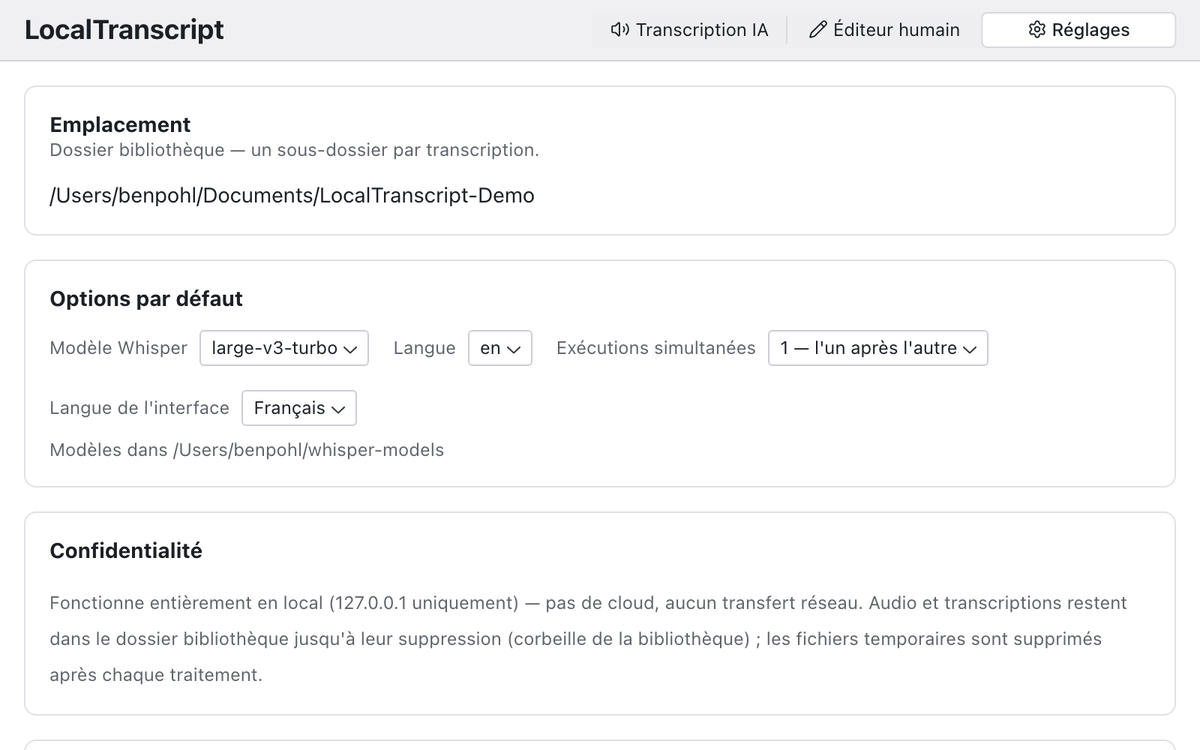
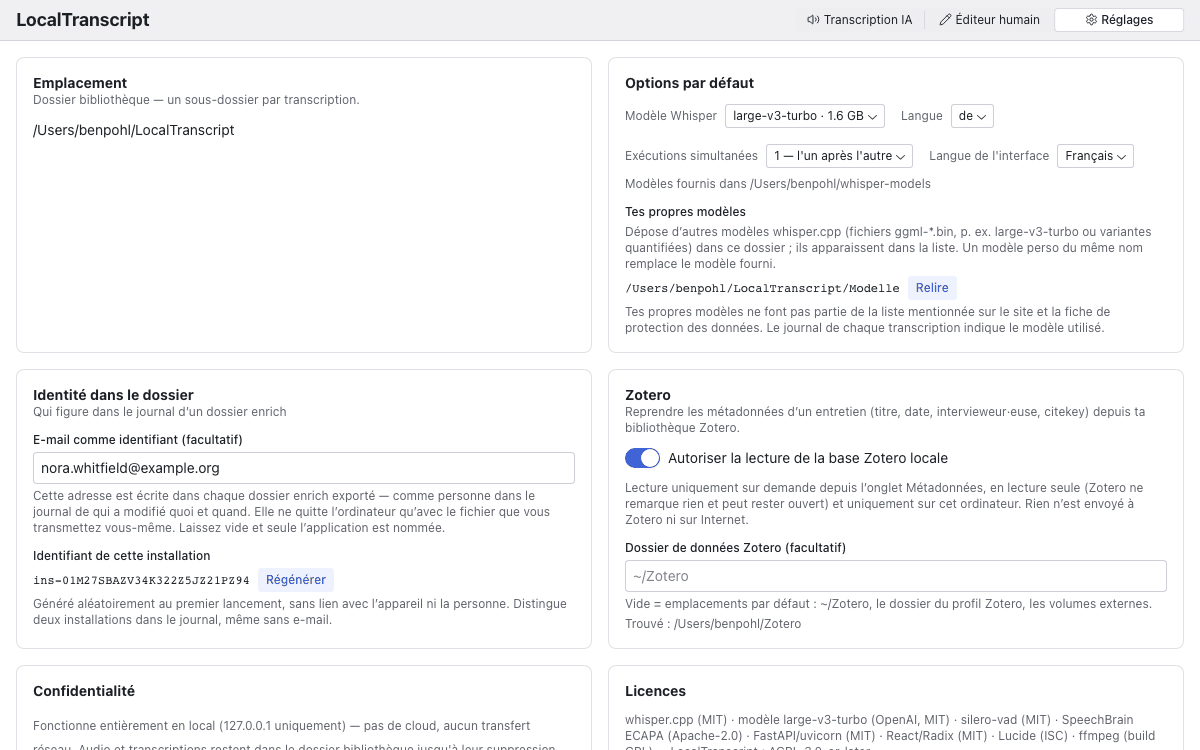
site: Schritt 6 «Metadaten aus Zotero» (erst in Zotero anlegen, dann hier zuweisen — für den enrich-Export) und «Eigene Modelle» im Einstellungs-Schritt, viersprachig; neue Bildschirmfotos (Wegwerf-Bibliothek, erfundenes Interview, gefälschte Zotero-Einträge) und zwei schematische Ansichten (Ordner 
Claude-Session: https://claude.ai/code/session_01VhoDoDyamQwRzZ3dqypMTk

diff --git a/site/index.html b/site/index.html
@@ -286,7 +286,27 @@ footer .links{display:flex;flex-wrap:wrap;gap:.35rem .5rem}
     </div>
     <div class="row schritt gross">
       <div class="t">
-        <h3><span class="nr">6</span><span data-t="g6h"></span></h3>
+        <h3><span class="nr">6</span><span data-t="zH"></span></h3>
+        <p data-t="zA"></p>
+        <p data-t="zB"></p>
+        <ol>
+          <li data-t="zS1"></li><li data-t="zS2"></li>
+          <li data-t="zS3"></li><li data-t="zS4"></li>
+        </ol>
+        <p data-t="zC"></p>
+      </div>
+      <div>
+        <div class="shot"><img src="img/zotero-item.png"
+          width="1200" height="301" alt="" data-alt="altZoteroItem"></div>
+        <div class="shot" style="margin-top:1rem"><img data-img="zotero" src="img/zotero-de.png"
+          width="1200" height="750" alt="" data-alt="altZotero"></div>
+        <div class="shot" style="margin-top:1rem"><img data-img="zotero-linked" src="img/zotero-linked-de.png"
+          width="1200" height="750" alt="" data-alt="altZoteroLinked"></div>
+      </div>
+    </div>
+    <div class="row schritt gross">
+      <div class="t">
+        <h3><span class="nr">7</span><span data-t="g6h"></span></h3>
         <p data-t="g6a"></p>
         <p data-t="g6b"></p>
         <ol>
@@ -303,11 +323,17 @@ footer .links{display:flex;flex-wrap:wrap;gap:.35rem .5rem}
     </div>
     <div class="row schritt gross">
       <div class="t">
-        <h3><span class="nr">7</span><span data-t="g7h"></span></h3>
+        <h3><span class="nr">8</span><span data-t="g7h"></span></h3>
         <p data-t="g7a"></p>
+        <p data-t="g7b"></p>
+        <p data-t="g7c"></p>
       </div>
-      <div class="shot"><img data-img="settings" src="img/settings-de.png"
-        width="1200" height="750" alt="" data-alt="altSettings"></div>
+      <div>
+        <div class="shot"><img data-img="settings" src="img/settings-de.png"
+          width="1200" height="750" alt="" data-alt="altSettings"></div>
+        <div class="shot" style="margin-top:1rem"><img src="img/models-folder.png"
+          width="1200" height="221" alt="" data-alt="altModelsFolder"></div>
+      </div>
     </div>
   </div>
 </section>
@@ -1467,7 +1493,21 @@ de:{
   altSettings:"Einstellungen mit Speicherort, Lizenzen und Formaten",
 
   guideH:"Bedienungsanleitung",
-  guideLede:"Von der Audiodatei bis zum Export in sieben Schritten. Dieselben Schritte stehen ausführlicher im README auf GitHub.",
+  guideLede:"Von der Audiodatei bis zum Export in acht Schritten. Dieselben Schritte stehen ausführlicher im README auf GitHub.",
+  zH:"Metadaten aus Zotero",
+  zA:"Wer Interviews in Zotero führt, verknüpft das Transkript mit seinem Zotero-Eintrag. Titel, Datum, Interviewer:in und Citekey reisen dann im enrich-Export mit — als Schicht source/zotero.json; enrich setzt sie auf Seite 1 der Lesefassung.",
+  zB:"Die Reihenfolge: erst in Zotero anlegen, dann hier zuweisen.",
+  zS1:"In Zotero den Eintrag anlegen: Typ «Interview», Interviewer:in und befragte Person als Beteiligte, Datum, Titel. Better BibTeX vergibt den Citekey.",
+  zS2:"In LocalTranscript einmalig in den Einstellungen «Lokale Zotero-Datenbank lesen erlauben» einschalten.",
+  zS3:"Im Editor den Reiter «Metadaten» öffnen, nach Titel, Jahr, Name oder Citekey suchen und den Eintrag anklicken — Interviews stehen zuoberst.",
+  zS4:"Rollen wählen und «Verknüpfen». Die befragte Person ist nicht vorausgewählt: Ein pseudonymisiertes Transkript soll ihren Namen nicht über Zotero bekommen.",
+  zC:"Zotero wird dabei nur gelesen — die Datenbank schreibgeschützt geöffnet, Zotero kann offen bleiben —, nur auf Anfrage, und nichts geht ins Netz. «Lösen» entfernt die Verknüpfung wieder, «Neu laden» holt Änderungen aus Zotero nach.",
+  altZoteroItem:"Schematische Zotero-Ansicht: ein Eintrag vom Typ Interview mit Interviewer:in, befragter Person, Datum und Citekey",
+  altZotero:"Reiter Metadaten im Editor mit Suchtreffern aus Zotero und der Rollenwahl",
+  altZoteroLinked:"Reiter Metadaten nach dem Verknüpfen: Titel, Datum, Citekey und Interviewer:in",
+  g7b:"Eigene Modelle: Die Bibliothek hat einen Ordner «Modelle». Jedes whisper.cpp-Modell — eine Datei ggml-….bin, etwa large-v3-turbo-swiss-german für Schweizerdeutsch oder eine quantisierte Variante — dort hineinlegen; nach «Neu einlesen» oder dem nächsten Öffnen der Einstellungen steht es in der Modell-Auswahl, als «eigenes» markiert. Ein eigenes Modell mit dem Namen eines mitgelieferten ersetzt dieses.",
+  g7c:"Die App lädt nie selbst. Geprüft wird nur, ob die Datei ein fertiges ggml-Modell ist; was durchfällt, nennen die Einstellungen mit Grund. Ein Feintuning von Hugging Face wandelt scripts/hf-nach-ggml.py aus dem Repository um. Eigene Modelle sind nicht Teil der geprüften Liste im Datenschutzblatt — womit transkribiert wurde, steht im Journal jedes Transkripts.",
+  altModelsFolder:"Schematische Finder-Ansicht des Ordners Modelle mit zwei ggml-Dateien",
   g1h:"Audio ablegen und transkribieren",
   g1a:"Im Reiter «AI-Transkript» ziehst du eine oder mehrere Dateien in das gestrichelte Feld – MP3, WAV, M4A, OGG oder FLAC. Unter «Optionen» wählst du Whisper-Modell, Sprache, Sprecherzahl und Trennschärfe.",
   g1b:"Die Sprecherzahl ist eine exakte Angabe: «1» bedeutet keine Trennung, alles wird ein Sprecher; «2» bis «6» erzwingen genau diese Zahl; «Automatisch» überlässt es der Clusterung. Mehrere Dateien laufen standardmässig nacheinander – wieviele gleichzeitig rechnen dürfen, stellst du in den Einstellungen ein.",
@@ -1562,7 +1602,21 @@ en:{
   altSettings:"Settings with storage location, licences and formats",
 
   guideH:"User guide",
-  guideLede:"From the audio file to the export in seven steps. The same steps are covered in more detail in the README on GitHub.",
+  guideLede:"From the audio file to the export in eight steps. The same steps are covered in more detail in the README on GitHub.",
+  zH:"Metadata from Zotero",
+  zA:"If you keep interviews in Zotero, link the transcript to its Zotero item. Title, date, interviewer and citekey then travel with the enrich export — as the layer source/zotero.json; enrich puts them on page 1 of the reading copy.",
+  zB:"The order: create it in Zotero first, then assign it here.",
+  zS1:"Create the item in Zotero: type “Interview”, interviewer and interviewee as creators, date, title. Better BibTeX assigns the citekey.",
+  zS2:"In LocalTranscript, switch on “Allow reading the local Zotero database” once in Settings.",
+  zS3:"In the editor open the “Metadata” tab, search by title, year, name or citekey and click the item — interviews come first.",
+  zS4:"Choose the roles and “Link”. The interviewee is not preselected: a pseudonymised transcript should not receive their name through Zotero.",
+  zC:"Zotero is only read — the database is opened read-only, Zotero can stay open —, only on request, and nothing goes online. “Unlink” removes the link again, “Reload” fetches changes made in Zotero.",
+  altZoteroItem:"Schematic Zotero view: an item of type Interview with interviewer, interviewee, date and citekey",
+  altZotero:"Metadata tab in the editor with search results from Zotero and the role selection",
+  altZoteroLinked:"Metadata tab after linking: title, date, citekey and interviewer",
+  g7b:"Your own models: the library has a folder “Modelle”. Put any whisper.cpp model there — a file ggml-….bin, for instance large-v3-turbo-swiss-german for Swiss German or a quantised variant — and after “Rescan” or the next time Settings open it appears in the model list, marked as your own. An own model with the name of a bundled one replaces it.",
+  g7c:"The app never downloads anything. It only checks that the file is a finished ggml model; what fails the check is named in Settings with the reason. A Hugging Face fine-tune is converted with scripts/hf-nach-ggml.py from the repository. Own models are not part of the checked list in the privacy sheet — each transcript’s journal records which model was used.",
+  altModelsFolder:"Schematic Finder view of the Modelle folder with two ggml files",
   g1h:"Drop audio and transcribe",
   g1a:"In the “AI Transcript” tab, drag one or more files into the dashed area – MP3, WAV, M4A, OGG or FLAC. Under “Options” you pick the Whisper model, the language, the number of speakers and the separation threshold.",
   g1b:"The speaker count is an exact figure: “1” means no separation and everything becomes one speaker; “2” to “6” force exactly that many; “Automatic” leaves it to the clustering. Several files run one after another by default – how many may compute at once is a setting.",
@@ -1657,7 +1711,21 @@ fr:{
   altSettings:"Réglages avec emplacement, licences et formats",
 
   guideH:"Mode d'emploi",
-  guideLede:"Du fichier audio à l'export en sept étapes. Les mêmes étapes sont détaillées dans le README sur GitHub.",
+  guideLede:"Du fichier audio à l'export en huit étapes. Les mêmes étapes sont détaillées dans le README sur GitHub.",
+  zH:"Métadonnées depuis Zotero",
+  zA:"Qui gère ses entretiens dans Zotero lie la transcription à son entrée Zotero. Titre, date, intervieweur·euse et citekey voyagent alors avec l’export enrich — comme couche source/zotero.json ; enrich les place en page 1 de la version de lecture.",
+  zB:"L’ordre : d’abord créer dans Zotero, puis attribuer ici.",
+  zS1:"Créer l’entrée dans Zotero : type « Entretien », intervieweur·euse et personne interviewée comme créateurs, date, titre. Better BibTeX attribue la citekey.",
+  zS2:"Dans LocalTranscript, activer une fois dans les réglages « Autoriser la lecture de la base Zotero locale ».",
+  zS3:"Dans l’éditeur, ouvrir l’onglet « Métadonnées », chercher par titre, année, nom ou citekey et cliquer l’entrée — les entretiens viennent en premier.",
+  zS4:"Choisir les rôles et « Lier ». La personne interviewée n’est pas présélectionnée : une transcription pseudonymisée ne doit pas recevoir son nom via Zotero.",
+  zC:"Zotero est seulement lu — la base est ouverte en lecture seule, Zotero peut rester ouvert —, uniquement sur demande, et rien ne part en ligne. « Dissocier » retire le lien, « Recharger » reprend les modifications faites dans Zotero.",
+  altZoteroItem:"Vue schématique de Zotero : une entrée de type Entretien avec intervieweur·euse, personne interviewée, date et citekey",
+  altZotero:"Onglet Métadonnées dans l’éditeur avec les résultats de recherche Zotero et le choix des rôles",
+  altZoteroLinked:"Onglet Métadonnées après la liaison : titre, date, citekey et intervieweur·euse",
+  g7b:"Tes propres modèles : la bibliothèque a un dossier « Modelle ». Dépose-y n’importe quel modèle whisper.cpp — un fichier ggml-….bin, par exemple large-v3-turbo-swiss-german pour le suisse allemand ou une variante quantifiée ; après « Relire » ou à la prochaine ouverture des réglages, il figure dans la liste des modèles, marqué « perso ». Un modèle perso portant le nom d’un modèle fourni le remplace.",
+  g7c:"L’application ne télécharge jamais rien. Elle vérifie seulement que le fichier est un modèle ggml complet ; ce qui échoue est nommé dans les réglages avec la raison. Un fine-tuning de Hugging Face se convertit avec scripts/hf-nach-ggml.py du dépôt. Les modèles perso ne font pas partie de la liste vérifiée de la fiche de protection des données — le journal de chaque transcription indique le modèle utilisé.",
+  altModelsFolder:"Vue schématique du Finder : le dossier Modelle avec deux fichiers ggml",
   g1h:"Déposer l'audio et transcrire",
   g1a:"Dans l'onglet « Transcription IA », glissez un ou plusieurs fichiers dans la zone pointillée – MP3, WAV, M4A, OGG ou FLAC. Sous « Options » se règlent le modèle Whisper, la langue, le nombre de locuteurs et le seuil de séparation.",
   g1b:"Le nombre de locuteurs est une valeur exacte : « 1 » signifie aucune séparation, tout devient un seul locuteur ; « 2 » à « 6 » imposent exactement ce nombre ; « Automatique » laisse décider le regroupement. Plusieurs fichiers s'exécutent par défaut l'un après l'autre – le nombre de calculs simultanés est un réglage.",
@@ -1752,7 +1820,21 @@ it:{
   altSettings:"Impostazioni con posizione, licenze e formati",
 
   guideH:"Guida all'uso",
-  guideLede:"Dal file audio all'esportazione in sette passi. Gli stessi passi sono descritti in dettaglio nel README su GitHub.",
+  guideLede:"Dal file audio all'esportazione in otto passi. Gli stessi passi sono descritti in dettaglio nel README su GitHub.",
+  zH:"Metadati da Zotero",
+  zA:"Chi gestisce le interviste in Zotero collega la trascrizione alla sua voce Zotero. Titolo, data, intervistatore/trice e citekey viaggiano allora con l’export enrich — come livello source/zotero.json; enrich li mette a pagina 1 della versione di lettura.",
+  zB:"L’ordine: prima creare in Zotero, poi assegnare qui.",
+  zS1:"Creare la voce in Zotero: tipo «Intervista», intervistatore/trice e persona intervistata come autori, data, titolo. Better BibTeX assegna la citekey.",
+  zS2:"In LocalTranscript attivare una volta nelle impostazioni «Consenti la lettura del database Zotero locale».",
+  zS3:"Nell’editor aprire la scheda «Metadati», cercare per titolo, anno, nome o citekey e fare clic sulla voce — le interviste vengono per prime.",
+  zS4:"Scegliere i ruoli e «Collega». La persona intervistata non è preselezionata: una trascrizione pseudonimizzata non deve ricevere il suo nome tramite Zotero.",
+  zC:"Zotero viene solo letto — il database è aperto in sola lettura, Zotero può restare aperto —, solo su richiesta, e nulla va in rete. «Scollega» rimuove il collegamento, «Ricarica» riprende le modifiche fatte in Zotero.",
+  altZoteroItem:"Vista schematica di Zotero: una voce di tipo Intervista con intervistatore/trice, persona intervistata, data e citekey",
+  altZotero:"Scheda Metadati nell’editor con i risultati della ricerca da Zotero e la scelta dei ruoli",
+  altZoteroLinked:"Scheda Metadati dopo il collegamento: titolo, data, citekey e intervistatore/trice",
+  g7b:"Modelli propri: la libreria ha una cartella «Modelle». Mettici qualsiasi modello whisper.cpp — un file ggml-….bin, ad esempio large-v3-turbo-swiss-german per lo svizzero tedesco o una variante quantizzata; dopo «Rileggi» o alla prossima apertura delle impostazioni compare nell’elenco dei modelli, contrassegnato come «proprio». Un modello proprio con il nome di uno fornito lo sostituisce.",
+  g7c:"L’app non scarica mai nulla. Verifica solo che il file sia un modello ggml completo; ciò che non passa è indicato nelle impostazioni con il motivo. Un fine-tuning da Hugging Face si converte con scripts/hf-nach-ggml.py del repository. I modelli propri non fanno parte dell’elenco verificato nella scheda sulla privacy — il giornale di ogni trascrizione indica il modello usato.",
+  altModelsFolder:"Vista schematica del Finder: la cartella Modelle con due file ggml",
   g1h:"Trascinare l'audio e trascrivere",
   g1a:"Nella scheda « Trascrizione IA » trascina uno o più file nell'area tratteggiata – MP3, WAV, M4A, OGG o FLAC. Sotto « Opzioni » si scelgono modello Whisper, lingua, numero di parlanti e soglia di separazione.",
   g1b:"Il numero di parlanti è un valore esatto: « 1 » significa nessuna separazione, tutto diventa un solo parlante; da « 2 » a « 6 » impongono esattamente quel numero; « Automatico » lascia decidere al raggruppamento. Più file girano in sequenza per impostazione predefinita – quanti possano calcolare insieme è un'impostazione.",
